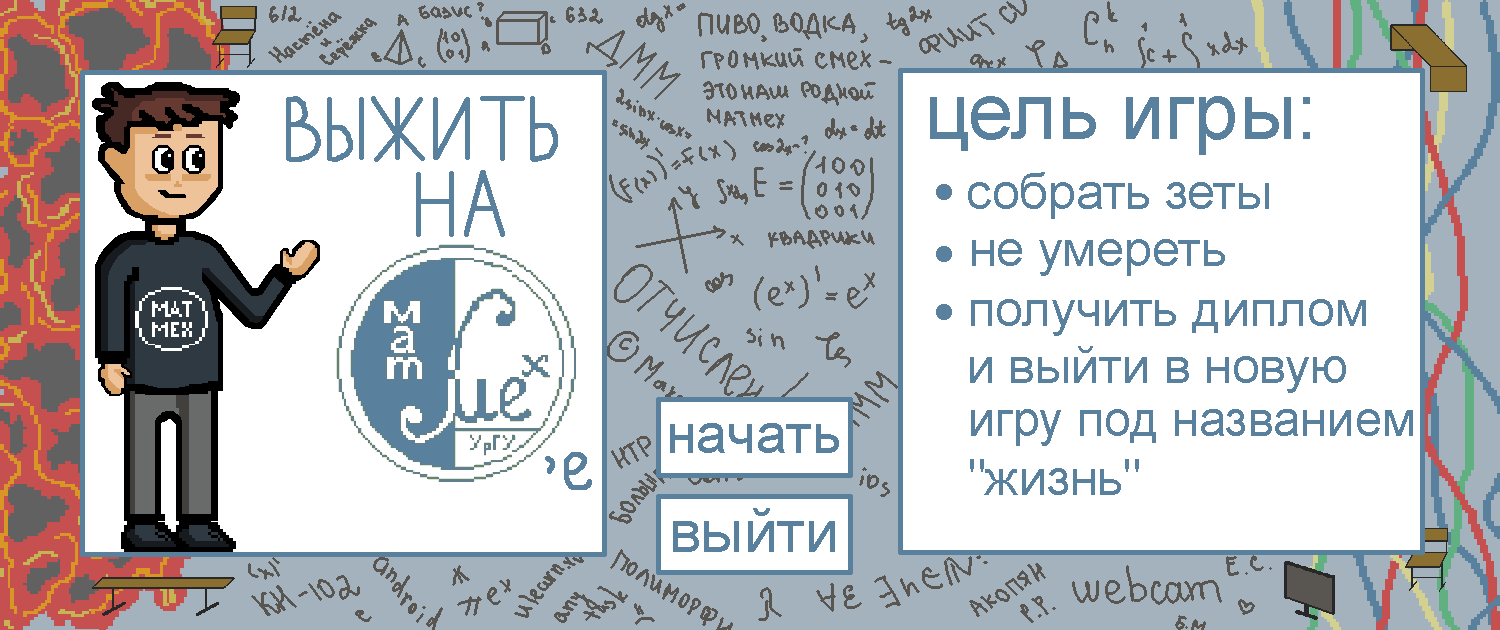
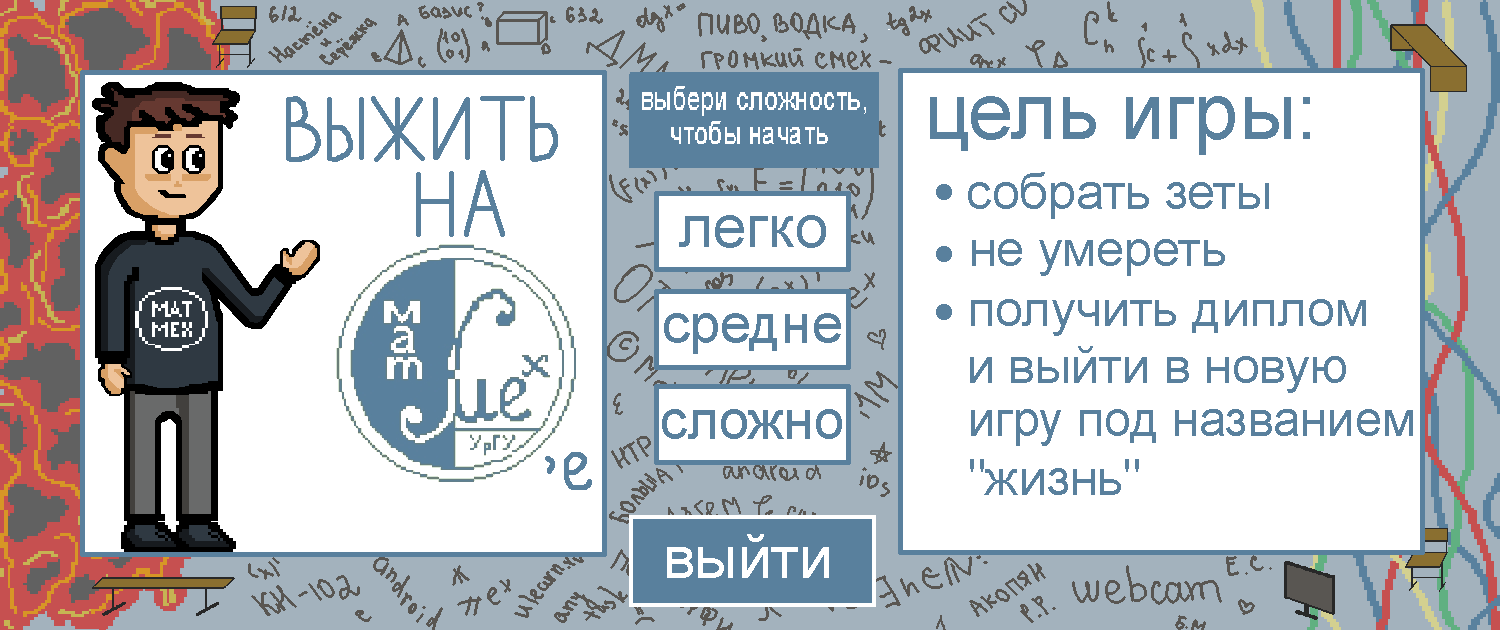
add levels

Changed region(s): [[0.3987, 0.3016, 0.6133, 0.9651], [0.3987, 0.0905, 0.6133, 0.2714]]

diff --git a/MMGame/Form1.cs b/MMGame/Form1.cs
@@ -30,8 +30,12 @@ namespace MMGame
         public bool newGame = true;
         public bool pause = false;
         public bool winGame = false;
-        public Rectangle startButtonBox = new Rectangle(new Point(656,397),new Size(197,81));
-        public Rectangle exitButtonBox = new Rectangle(new Point(656,494),new Size(197,81));
+        
+        public Rectangle EzButtonBox = new Rectangle(new Point(654,191),new Size(197,81));
+        public Rectangle MediumButtonBox = new Rectangle(new Point(654,289),new Size(197,81));
+        public Rectangle HardButtonBox = new Rectangle(new Point(654,384),new Size(197,81));
+        public Rectangle exitButtonBox = new Rectangle(new Point(629,515),new Size(246,91));
+        
         public Rectangle pauseMenuButtonBox = new Rectangle(new Point(576, 370), new Size(162,64));
         public Rectangle pauseContinueButtonBox = new Rectangle(new Point(753, 369), new Size(159,65));
         public Zet zet;
@@ -55,7 +59,6 @@ namespace MMGame
             xFloorCord = 0;
             floorSpeed = 3;
             winGame = false;
-            winZetAmount = 5;
         }
         
         private void DrawBackground(Graphics graphics)
@@ -100,7 +103,6 @@ namespace MMGame
                 trouble.X -= floorSpeed;
                 trouble.TroubleImage.MakeTransparent(Color.White);
                 graphics.DrawImage(trouble.TroubleImage,trouble.X,trouble.Y);
-                //graphics.DrawRectangle(new Pen(Color.Brown),trouble.HitBox);
                 if (!player.imageRect.IntersectsWith(trouble.ImageRect) ||
                     player.HitBox.Top <= trouble.HitBox.Top) continue;
                 graphics.DrawImage(trouble.TroubleImage,trouble.X,trouble.Y);
@@ -143,9 +145,24 @@ namespace MMGame
             
             MouseClick += (sender, args) =>
             {
-                if (startButtonBox.Contains(args.Location) && newGame)
+                if (EzButtonBox.Contains(args.Location) && newGame)
                 {
                     Init();
+                    winZetAmount = 2;
+                    newGame = false;
+                }
+                
+                if (MediumButtonBox.Contains(args.Location) && newGame)
+                {
+                    Init();
+                    winZetAmount = 5;
+                    newGame = false;
+                }
+                
+                if (HardButtonBox.Contains(args.Location) && newGame)
+                {
+                    Init();
+                    winZetAmount = 10;
                     newGame = false;
                 }
                 
